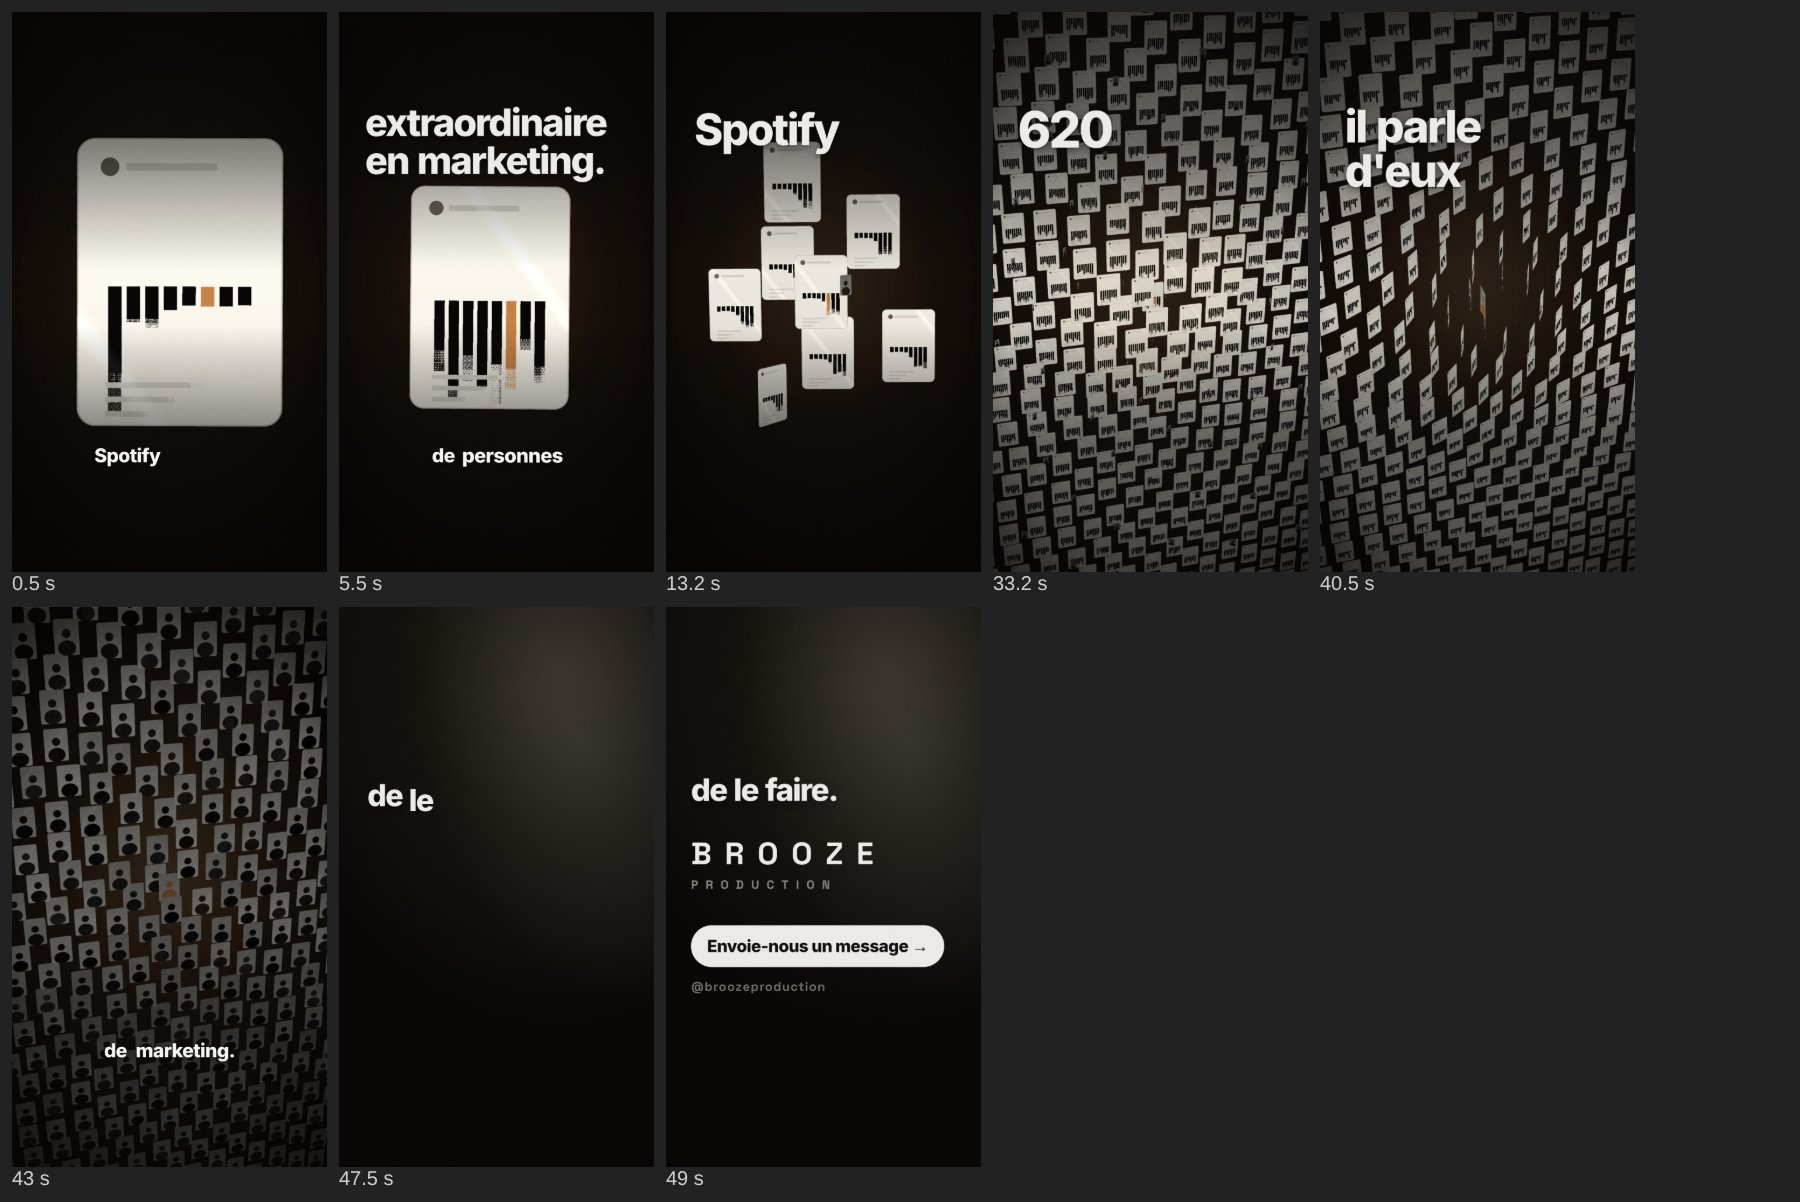
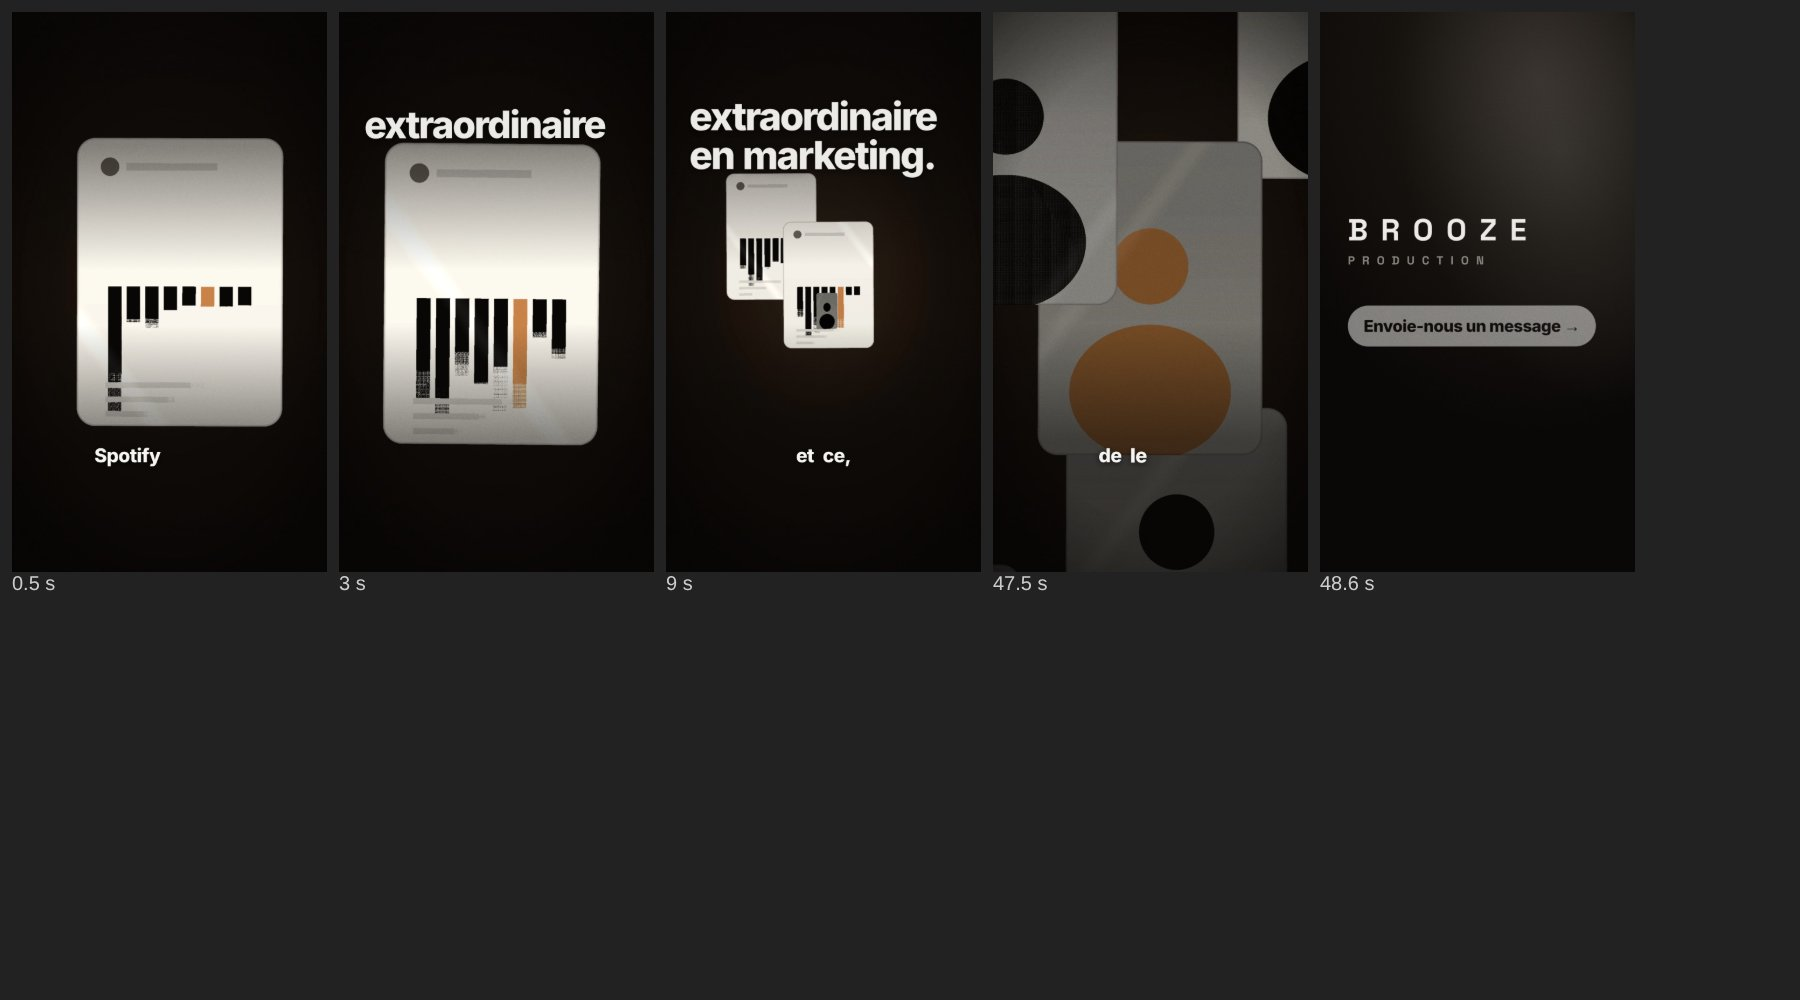
Reel Spotify: correction speckle des barres

diff --git a/reel/creations/champ.html b/reel/creations/champ.html
@@ -63,6 +63,7 @@ const mat = new THREE.ShaderMaterial({
   float hash(float n){return fract(sin(n*91.3458)*47453.5453);}
   float sdRB(vec2 p,vec2 b,float r){vec2 q=abs(p)-b+r;return length(max(q,0.))+min(max(q.x,q.y),0.)-r;}
   void main(){
+    float vS=floor(vSeed*4096.+.5)/4096.;
     vec2 p=(vUv-.5)*vec2(1.,1.4); float d=sdRB(p,vec2(.5,.7),.09);
     if(d>0.) discard;
     float edge=smoothstep(0.,-.012,d);
@@ -77,24 +78,24 @@ const mat = new THREE.ShaderMaterial({
       float bx=(p.x+.36)/.72; float k=floor(bx*8.);
       if(bx>0.&&bx<1.){
         float fx=fract(bx*8.); int ki=int(clamp(k,0.,7.)); float hv=uHist[ki];
-        float h=.1+.62*clamp(hv*(.55+.6*hash(vSeed*50.+k)),0.,1.);
+        float h=.1+.62*clamp(hv*(.55+.6*hash(vS*50.+k)),0.,1.);
         float inBar=step(.14,fx)*step(fx,.86)*step(-.36,p.y)*step(p.y,-.36+h*.8);
         vec3 bc=mix(ink,soft,vHero>.5?0.:.4); if(vHero>.5&&k==5.) bc=cu;
         col=mix(col,bc,inBar);
       }
       // lignes de texte abstraites
-      for(int i=0;i<3;i++){float y=-.5-float(i)*.07; float w=.5-float(i)*.13-hash(vSeed*9.+float(i))*.1;
+      for(int i=0;i<3;i++){float y=-.5-float(i)*.07; float w=.5-float(i)*.13-hash(vS*9.+float(i))*.1;
         col=mix(col,studio,step(abs(p.y-y),.014)*step(-.36,p.x)*step(p.x,-.36+w));}
     } else {
-      vec3 tone=vSeed<.34?studio:(vSeed<.67?vec3(.91,.9,.88):vec3(.78,.77,.75));
+      vec3 tone=vS<.34?studio:(vS<.67?vec3(.91,.9,.88):vec3(.78,.77,.75));
       col=mix(tone,tone*.88,smoothstep(-.6,.7,p.y));
-      vec3 sil=vHero>.5?cu:mix(ink,soft,hash(vSeed*7.)*.55);
+      vec3 sil=vHero>.5?cu:mix(ink,soft,hash(vS*7.)*.55);
       float head=step(length((p-vec2(0.,.14))*vec2(1.,1.)),.17);
       vec2 q=(p-vec2(0.,-.42))/vec2(.36,.30); float body=step(length(q),1.);
       col=mix(col,sil,max(head,body));
     }
     // reflet qui glisse + éclat de l'anneau
-    float sheen=smoothstep(.07,0.,abs(p.x*.8+p.y*.6-.55*sin(uT*.35+vSeed*6.)));
+    float sheen=smoothstep(.07,0.,abs(p.x*.8+p.y*.6-.55*sin(uT*.35+vS*6.)));
     col+=sheen*.06; col+=vGlow*vec3(.1,.08,.05);
     col*=vShade*exp(-vDepth*.0065);
     col=mix(col,col*.55,smoothstep(-.012,0.,d)*.6);
